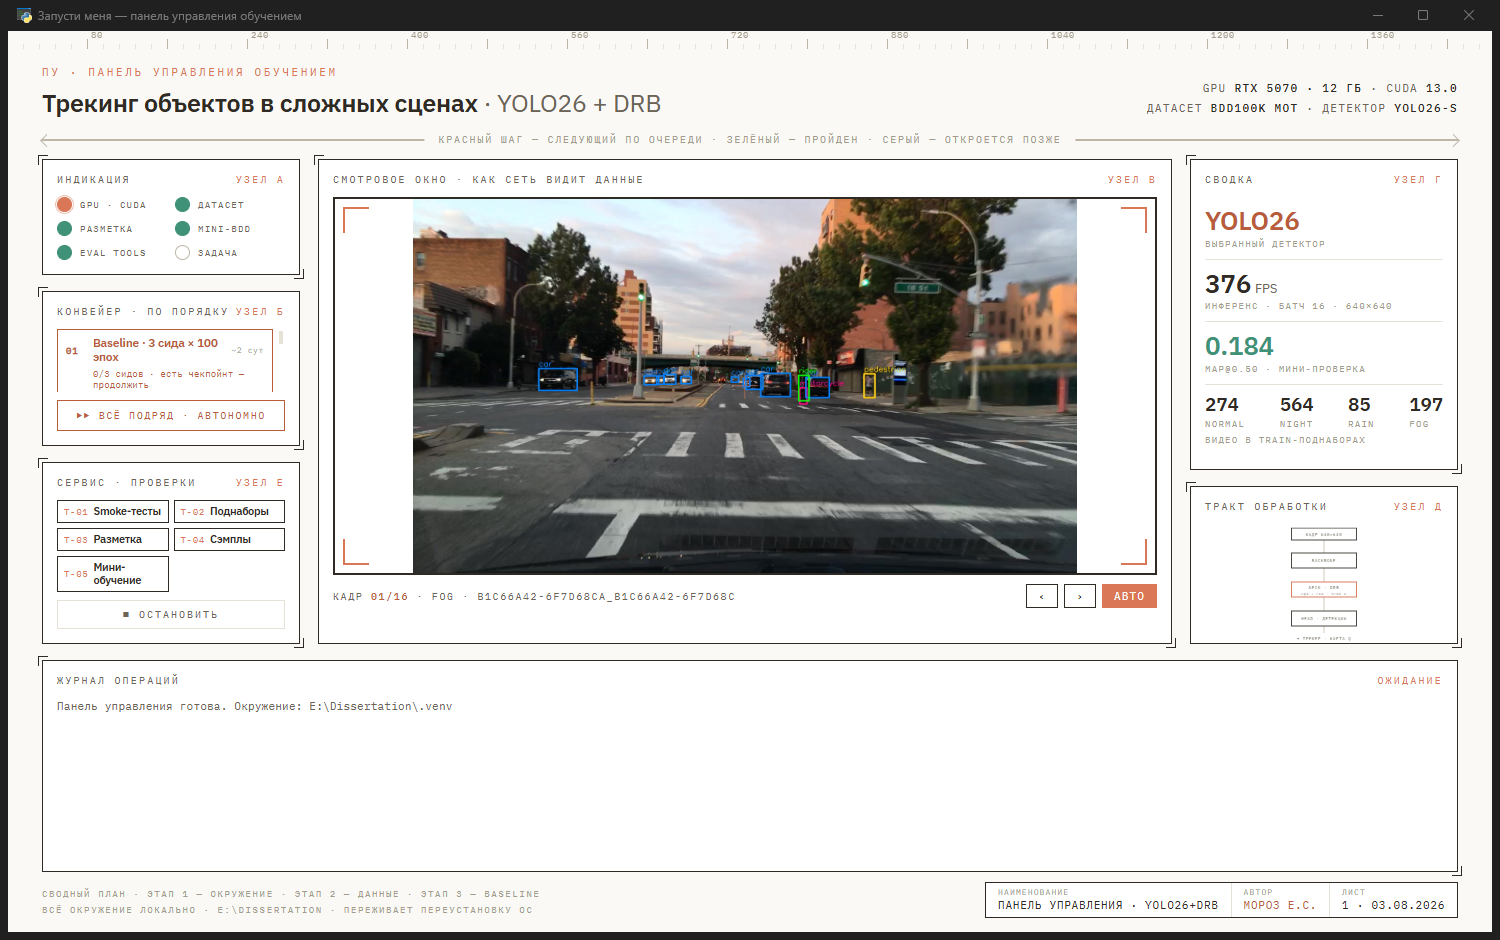
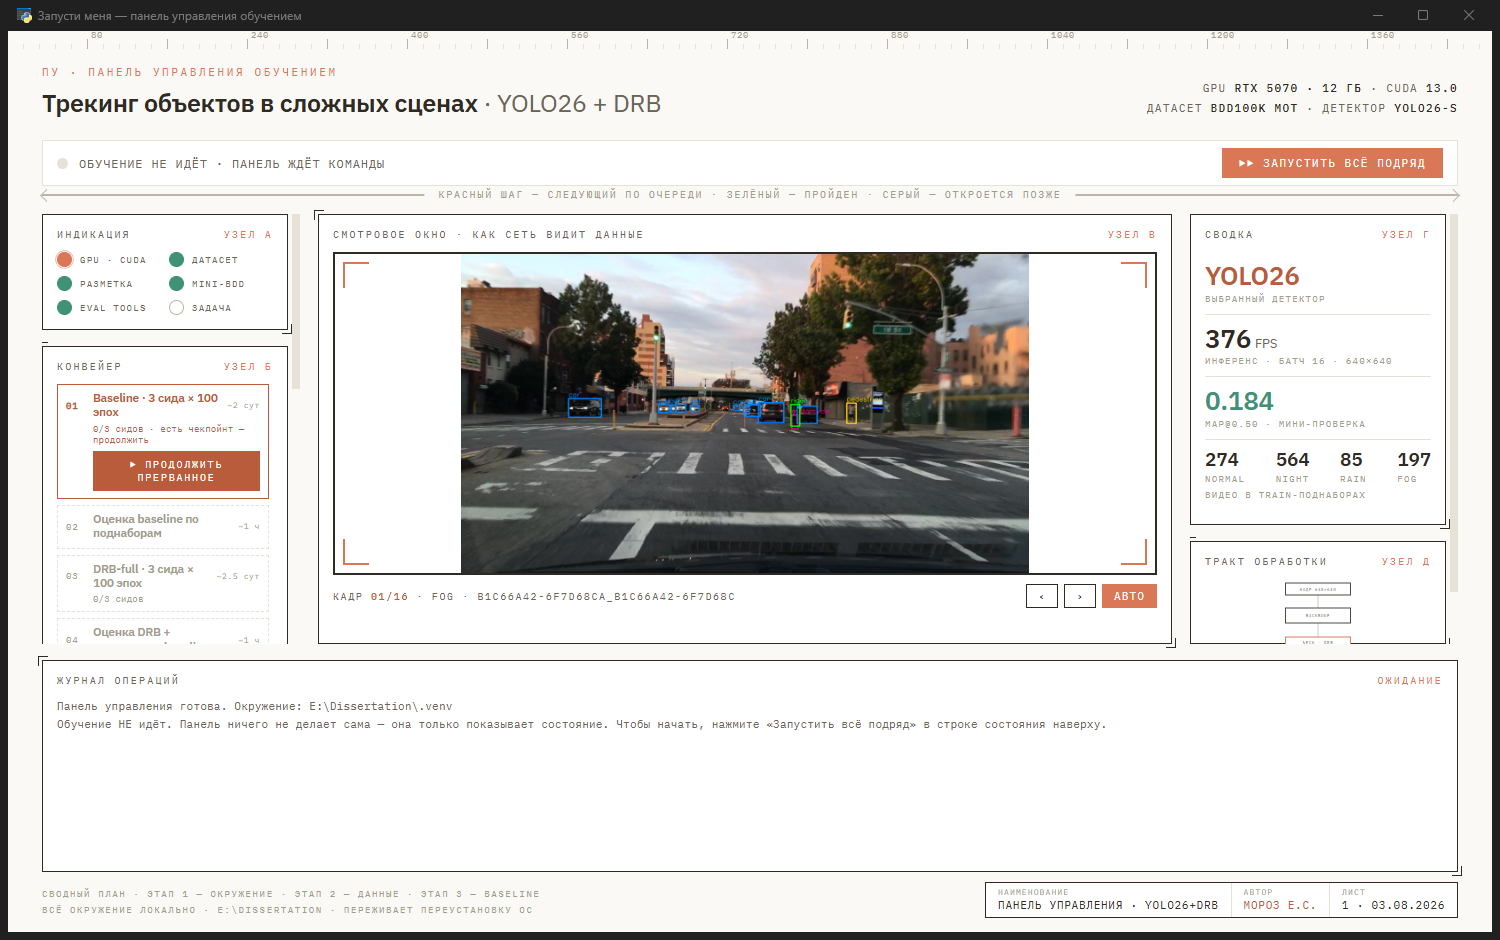
fix: по панели видно, идёт обучение или нет
Отзыв: «не могу понять, идёт обучение или нет; кнопка Продолжить,
Остановить неактивна, журнал пуст, а картинки сами меняются».
Мелькающий слайд-шоу читался как признак работы.

- Строка состояния во всю ширину над панелями: серая точка и
  «Обучение не идёт · панель ждёт команды» либо пульсирующая красная
  и «Идёт: <что> · окно можно закрыть, не прервётся».
- Главная кнопка переехала в эту строку и всегда на виду: «Запустить
  всё подряд» / «Остановить» — одно место для состояния и действия.
- Слайд-шоу примеров больше не включается само (кнопка «Авто» в узле В).
- Журнал при открытии прямо пишет, идёт прогон или нет.
- «Остановить» в узле Е, когда нечего останавливать, так и говорит.
- Шаг конвейера: «Продолжить прерванное» / «Начать этот шаг» вместо
  «Продолжить», которое читалось как «уже идёт».
- Левая колонка прокручивается — кнопка «Остановить» больше не
  обрезается на невысоком окне.

diff --git a/ui/launcher.html b/ui/launcher.html
@@ -68,7 +68,12 @@ main{flex:1; display:grid; grid-template-columns:258px 1fr 268px; gap:18px; min-
 .panel::before{top:-5px; left:-5px; border-top:1.6px solid var(--line); border-left:1.6px solid var(--line);}
 .panel::after{bottom:-5px; right:-5px; border-bottom:1.6px solid var(--line); border-right:1.6px solid var(--line);}
 
-.rail{display:flex; flex-direction:column; gap:16px; min-height:0;}
+/* колонка прокручивается: на невысоком окне лучше прокрутка, чем обрезанная
+   кнопка «Остановить» — её не должно быть не видно никогда */
+.rail{display:flex; flex-direction:column; gap:16px; min-height:0;
+  overflow-y:auto; padding-right:4px;}
+.rail::-webkit-scrollbar{width:8px;}
+.rail::-webkit-scrollbar-thumb{background:var(--div); border:2px solid var(--paper);}
 
 /* ————— лампы ————— */
 #lamps{display:grid; grid-template-columns:1fr 1fr; gap:9px 8px;}
@@ -135,11 +140,25 @@ main{flex:1; display:grid; grid-template-columns:258px 1fr 268px; gap:18px; min-
 .op .otime{font-family:var(--mono); font-size:8.5px; color:var(--cap); letter-spacing:.1em;}
 .op.running{border-color:var(--accent);}
 .op.running .oname{color:var(--accent-deep);}
-#autobtn{margin-top:8px; flex:none; font-family:var(--mono); font-size:10px; letter-spacing:.16em;
-  text-transform:uppercase; padding:8px 6px; width:100%; cursor:pointer;
-  background:var(--surface); color:var(--accent-deep); border:1.5px solid var(--accent-deep);}
-#autobtn:hover:not(:disabled){background:var(--accent); color:var(--surface); border-color:var(--accent);}
-#autobtn:disabled{opacity:.4; cursor:default;}
+/* ————— строка состояния: идёт обучение или нет ————— */
+#runbanner{display:flex; align-items:center; gap:11px; margin:9px 0 0;
+  padding:7px 14px; border:1.8px solid var(--line); background:var(--surface);
+  font-family:var(--mono); font-size:11.5px; letter-spacing:.1em; text-transform:uppercase;}
+#rundot{width:11px; height:11px; border-radius:50%; flex:none;}
+#runbanner.idle{border-color:var(--div); color:var(--sec);}
+#runbanner.idle #rundot{background:var(--div);}
+#runbanner.busy{border-color:var(--accent-deep); color:var(--accent-deep);}
+#runbanner.busy #rundot{background:var(--accent); animation:runpulse 1.4s ease-in-out infinite;}
+@keyframes runpulse{0%,100%{opacity:1; box-shadow:0 0 0 0 var(--accent);}
+  50%{opacity:.55; box-shadow:0 0 0 6px rgba(0,0,0,0);}}
+
+#runtext{flex:1;}
+#mainbtn{flex:none; font-family:var(--mono); font-size:11px; letter-spacing:.14em;
+  text-transform:uppercase; padding:7px 16px; cursor:pointer; border:1.5px solid var(--accent);
+  background:var(--accent); color:var(--surface);}
+#mainbtn:hover{background:var(--accent-deep); border-color:var(--accent-deep);}
+#runbanner.busy #mainbtn{background:var(--surface); color:var(--accent-deep);
+  border-color:var(--accent-deep);}
 
 #stopbtn{margin-top:8px; border-color:var(--div); color:var(--sec); font-family:var(--mono); font-size:10px;
   letter-spacing:.2em; text-transform:uppercase; padding:7px; background:var(--surface); border:1.5px solid var(--div); cursor:pointer; width:100%;}
@@ -235,6 +254,11 @@ footer{display:flex; align-items:flex-end; justify-content:space-between; paddin
       Датасет <b>BDD100K MOT</b> · Детектор <b>YOLO26-S</b>
     </div>
   </header>
+  <div id="runbanner" class="idle">
+    <span id="rundot"></span>
+    <span id="runtext">Проверяю состояние…</span>
+    <button id="mainbtn">▶▶ Запустить всё подряд</button>
+  </div>
   <div class="dim"><div class="bar"></div><div class="tag">Красный шаг — следующий по очереди · зелёный — пройден · серый — откроется позже</div></div>
 
   <main>
@@ -252,10 +276,9 @@ footer{display:flex; align-items:flex-end; justify-content:space-between; paddin
         </div>
       </section>
 
-      <section class="panel" style="flex:1; min-height:150px">
-        <div class="ptitle"><span>Конвейер · по порядку</span><span class="idx">Узел Б</span></div>
+      <section class="panel" style="flex:1 0 auto; min-height:190px">
+        <div class="ptitle"><span>Конвейер</span><span class="idx">Узел Б</span></div>
         <div id="pipeline"><!-- шаги рендерятся из pipeline_state() --></div>
-        <button id="autobtn" title="Пройти все оставшиеся шаги подряд, с проверкой результатов после каждого. Остановится сам, если что-то пойдёт не так.">▶▶ Всё подряд · автономно</button>
       </section>
 
       <section class="panel" style="flex:none">
@@ -267,7 +290,7 @@ footer{display:flex; align-items:flex-end; justify-content:space-between; paddin
           <button class="op" data-task="visualize" title="Сэмплы поднаборов (~1 мин)"><span class="oid">Т-04</span><span class="oname">Сэмплы</span></button>
           <button class="op" data-task="minitrain" title="Мини-обучение (~3 мин)"><span class="oid">Т-05</span><span class="oname">Мини-обучение</span></button>
         </div>
-        <button id="stopbtn" disabled>■ Остановить</button>
+        <button id="stopbtn" disabled>■ Останавливать нечего</button>
       </section>
     </div>
 
@@ -375,6 +398,19 @@ const ui = {
     if (el) el.className = 'lamp' + (state ? ' ' + state : '');
   },
   setPhase(text) { $('phase').textContent = text || ''; },
+  // единственное место, где решается вопрос «идёт или не идёт»
+  setRunBanner(busy, what) {
+    const b = $('runbanner');
+    b.className = busy ? 'busy' : 'idle';
+    $('runtext').textContent = busy
+      ? 'Идёт: ' + (what || 'работа') + ' · окно можно закрыть, не прервётся'
+      : 'Обучение не идёт · панель ждёт команды';
+    const btn = $('mainbtn');
+    btn.textContent = busy ? '■ Остановить' : '▶▶ Запустить всё подряд';
+    btn.title = busy
+      ? 'Прервать работу. Всё посчитанное сохранится, продолжить можно этой же кнопкой.'
+      : 'Пройти все оставшиеся шаги подряд, с проверкой результатов после каждого.';
+  },
   setBusy(taskId, busy) {
     document.querySelectorAll('.op').forEach(b => {
       if (!b.dataset.task) return;
@@ -388,7 +424,10 @@ const ui = {
       if (btn) { btn.disabled = busy; if (running) btn.textContent = '■ Выполняется…'; }
     });
     $('stopbtn').disabled = !busy;
-    $('autobtn').disabled = busy;
+    $('stopbtn').textContent = busy ? '■ Остановить' : '■ Останавливать нечего';
+    const step = document.querySelector('.step[data-step="' + taskId + '"] .sname');
+    ui.setRunBanner(busy, taskId === 'full'
+      ? 'весь конвейер по порядку' : (step ? step.textContent : taskId));
     $('viewport').classList.toggle('scanning', busy);
     $('pipe').classList.toggle('busy', busy);
     $('logstate').textContent = busy ? 'Выполняется' : 'Ожидание';
@@ -432,7 +471,8 @@ function renderPipeline(steps) {
     const el = document.createElement('div');
     el.className = 'step ' + st.role;         // done | active | locked
     el.dataset.step = st.id;
-    const btnLabel = st.status === 'partial' ? '▶ Продолжить' : '▶ Запустить';
+    const btnLabel = st.status === 'partial'
+      ? '▶ Продолжить прерванное' : '▶ Начать этот шаг';
     el.innerHTML =
       '<div class="srow">' +
         '<span class="snum">' + String(i + 1).padStart(2, '0') + '</span>' +
@@ -494,9 +534,15 @@ function boot() {
     pywebview.api.state().then(applyState),
     pywebview.api.pipeline_state().then(renderPipeline),
     pywebview.api.list_images().then(ui.setImages),
-  ]).then(() => pywebview.api.boot_done().catch(() => {}));
+  ]).then(() => {
+    // состояние по умолчанию — «ничего не идёт»; если автономный прогон жив,
+    // Python сразу перебьёт его из boot_done
+    ui.setBusy(null, false);
+    return pywebview.api.boot_done().catch(() => {});
+  });
   pywebview.api.gpu_check().catch(() => {});
-  startAuto();
+  // слайд-шоу примеров НЕ включается само: мелькающие картинки читались как
+  // признак идущего обучения. Включается кнопкой «Авто» в узле В.
   ui.log('Панель управления готова. Окружение: E:\\Dissertation\\.venv', 'info');
 }
 window.addEventListener('pywebviewready', boot);
@@ -512,7 +558,11 @@ document.querySelectorAll('.op[data-task]').forEach(btn => {
   });
 });
 $('stopbtn').addEventListener('click', () => pywebview.api.stop_task());
-$('autobtn').addEventListener('click', () => {
+$('mainbtn').addEventListener('click', () => {
+  if ($('runbanner').classList.contains('busy')) {
+    pywebview.api.stop_task();
+    return;
+  }
   ui.setBusy('full', true);
   ui.log('');
   ui.log('——— автономный прогон: все оставшиеся шаги с проверками ———', 'info');

diff --git a/Запусти меня.py b/Запусти меня.py
@@ -260,11 +260,15 @@ class Api:
         """Вызывается из JS после успешной инициализации интерфейса."""
         self.boot_event.set()
         if self._full_pid() is not None:
-            self._log('Обнаружен идущий автономный прогон — подключаюсь к его '
-                      'журналу (хвост последних строк).', 'info')
+            self._log('Автономный прогон ИДЁТ прямо сейчас — подключаюсь к его '
+                      'журналу (показываю последние строки).', 'ok')
             self._js('ui.setBusy("full", true)')
             tail_from = max(0, FULL_LOG.stat().st_size - 4000) if FULL_LOG.exists() else 0
             self._watch_full(tail_from)
+        else:
+            self._log('Обучение НЕ идёт. Панель ничего не делает сама — она '
+                      'только показывает состояние. Чтобы начать, нажмите '
+                      '«Запустить всё подряд» в строке состояния наверху.', 'info')
 
     # ——— взаимодействие с интерфейсом ———
     def _js(self, code: str) -> None:
